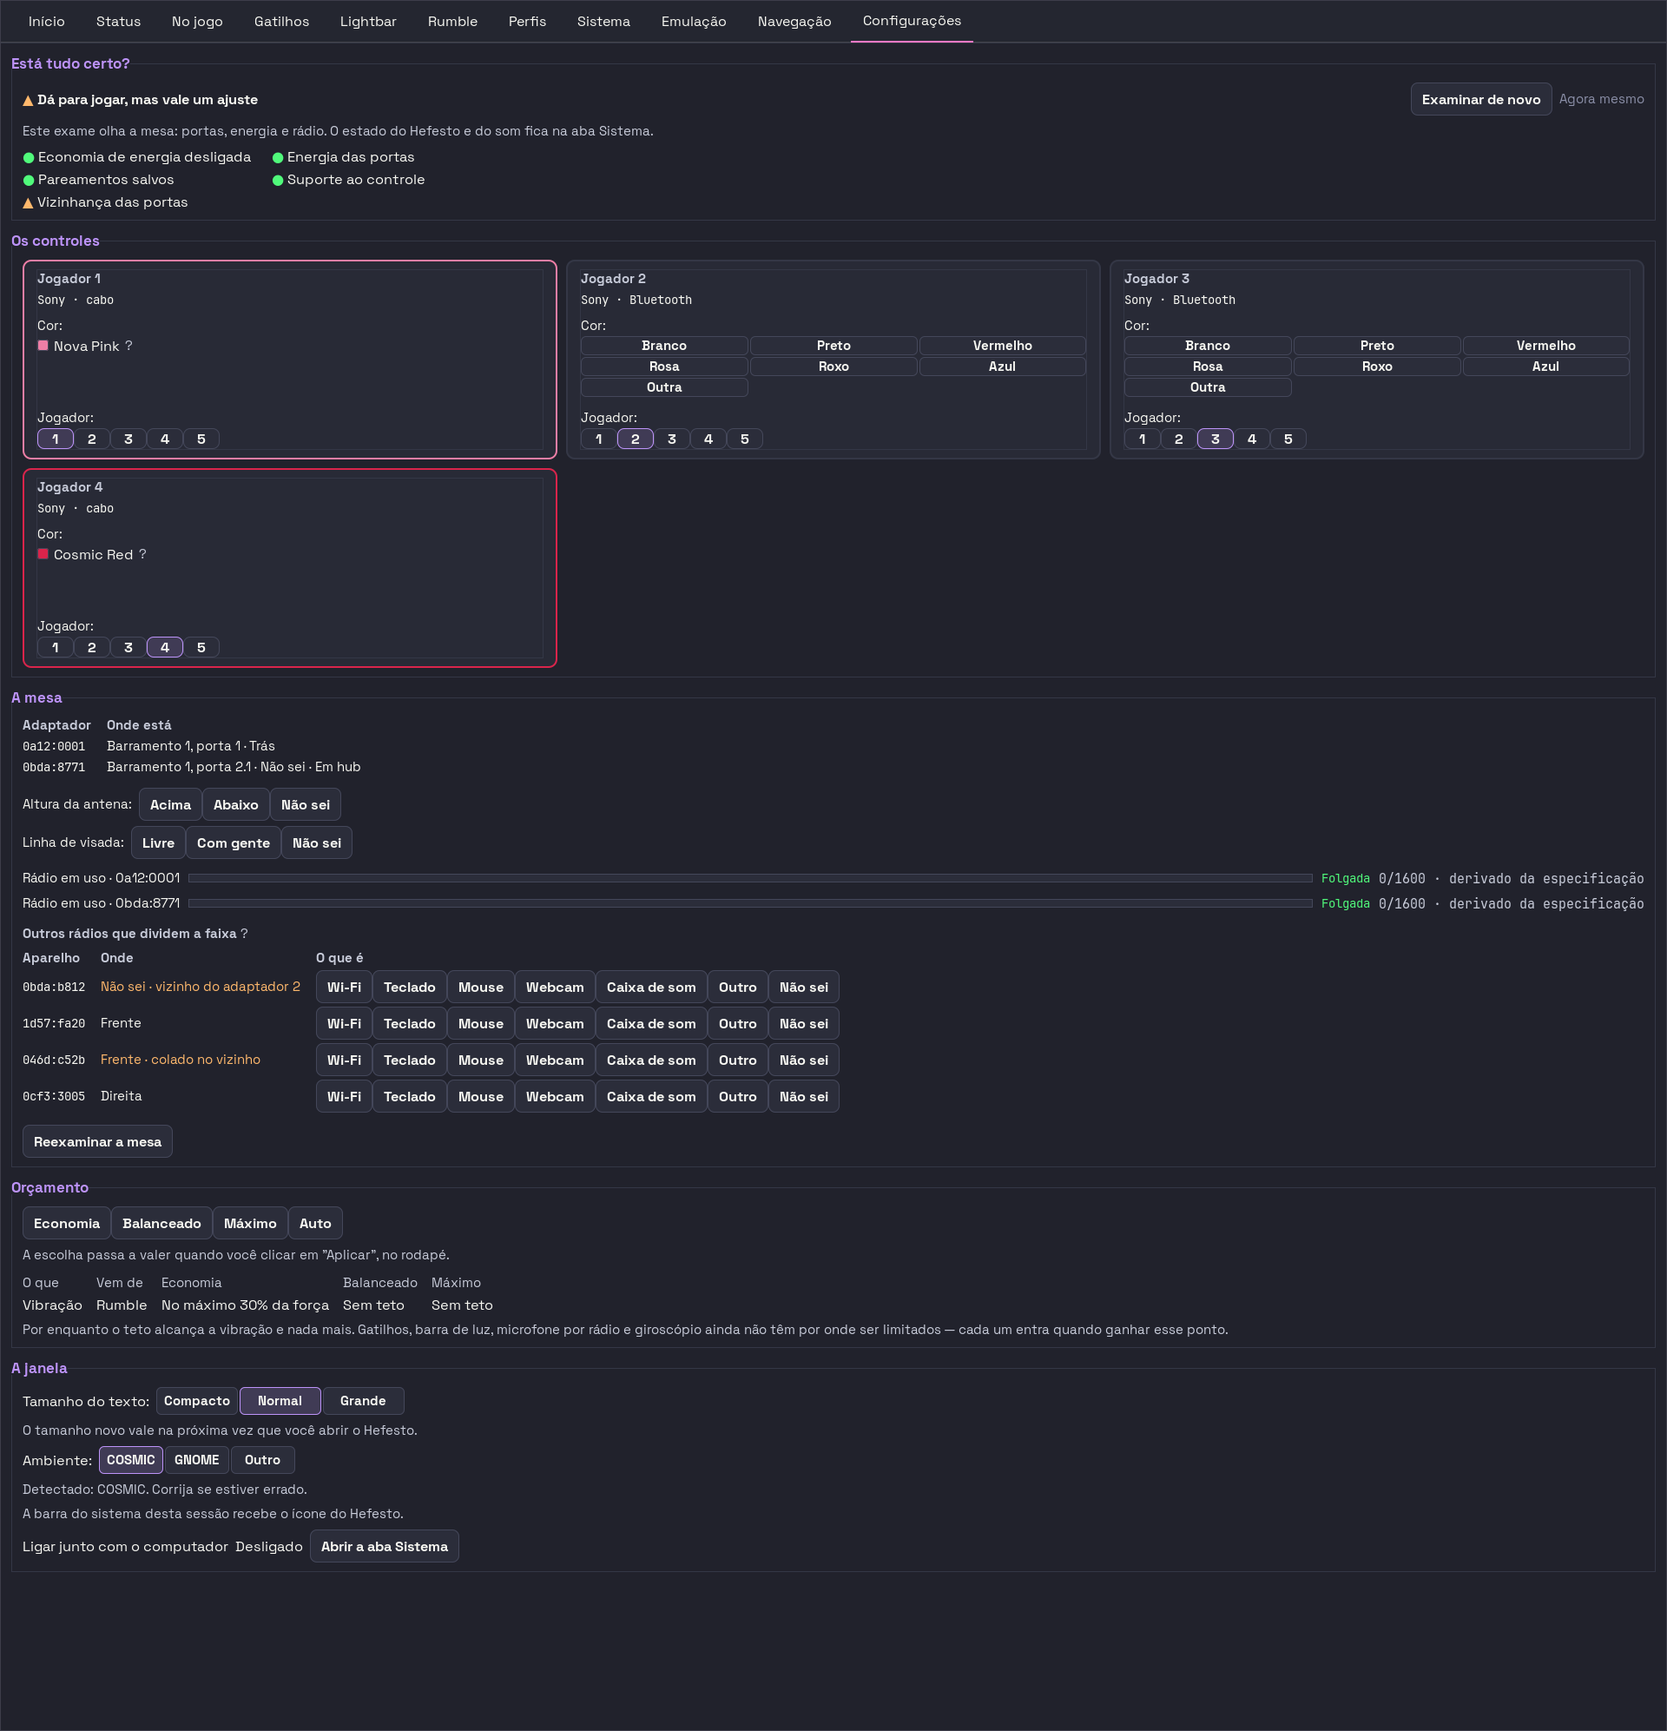
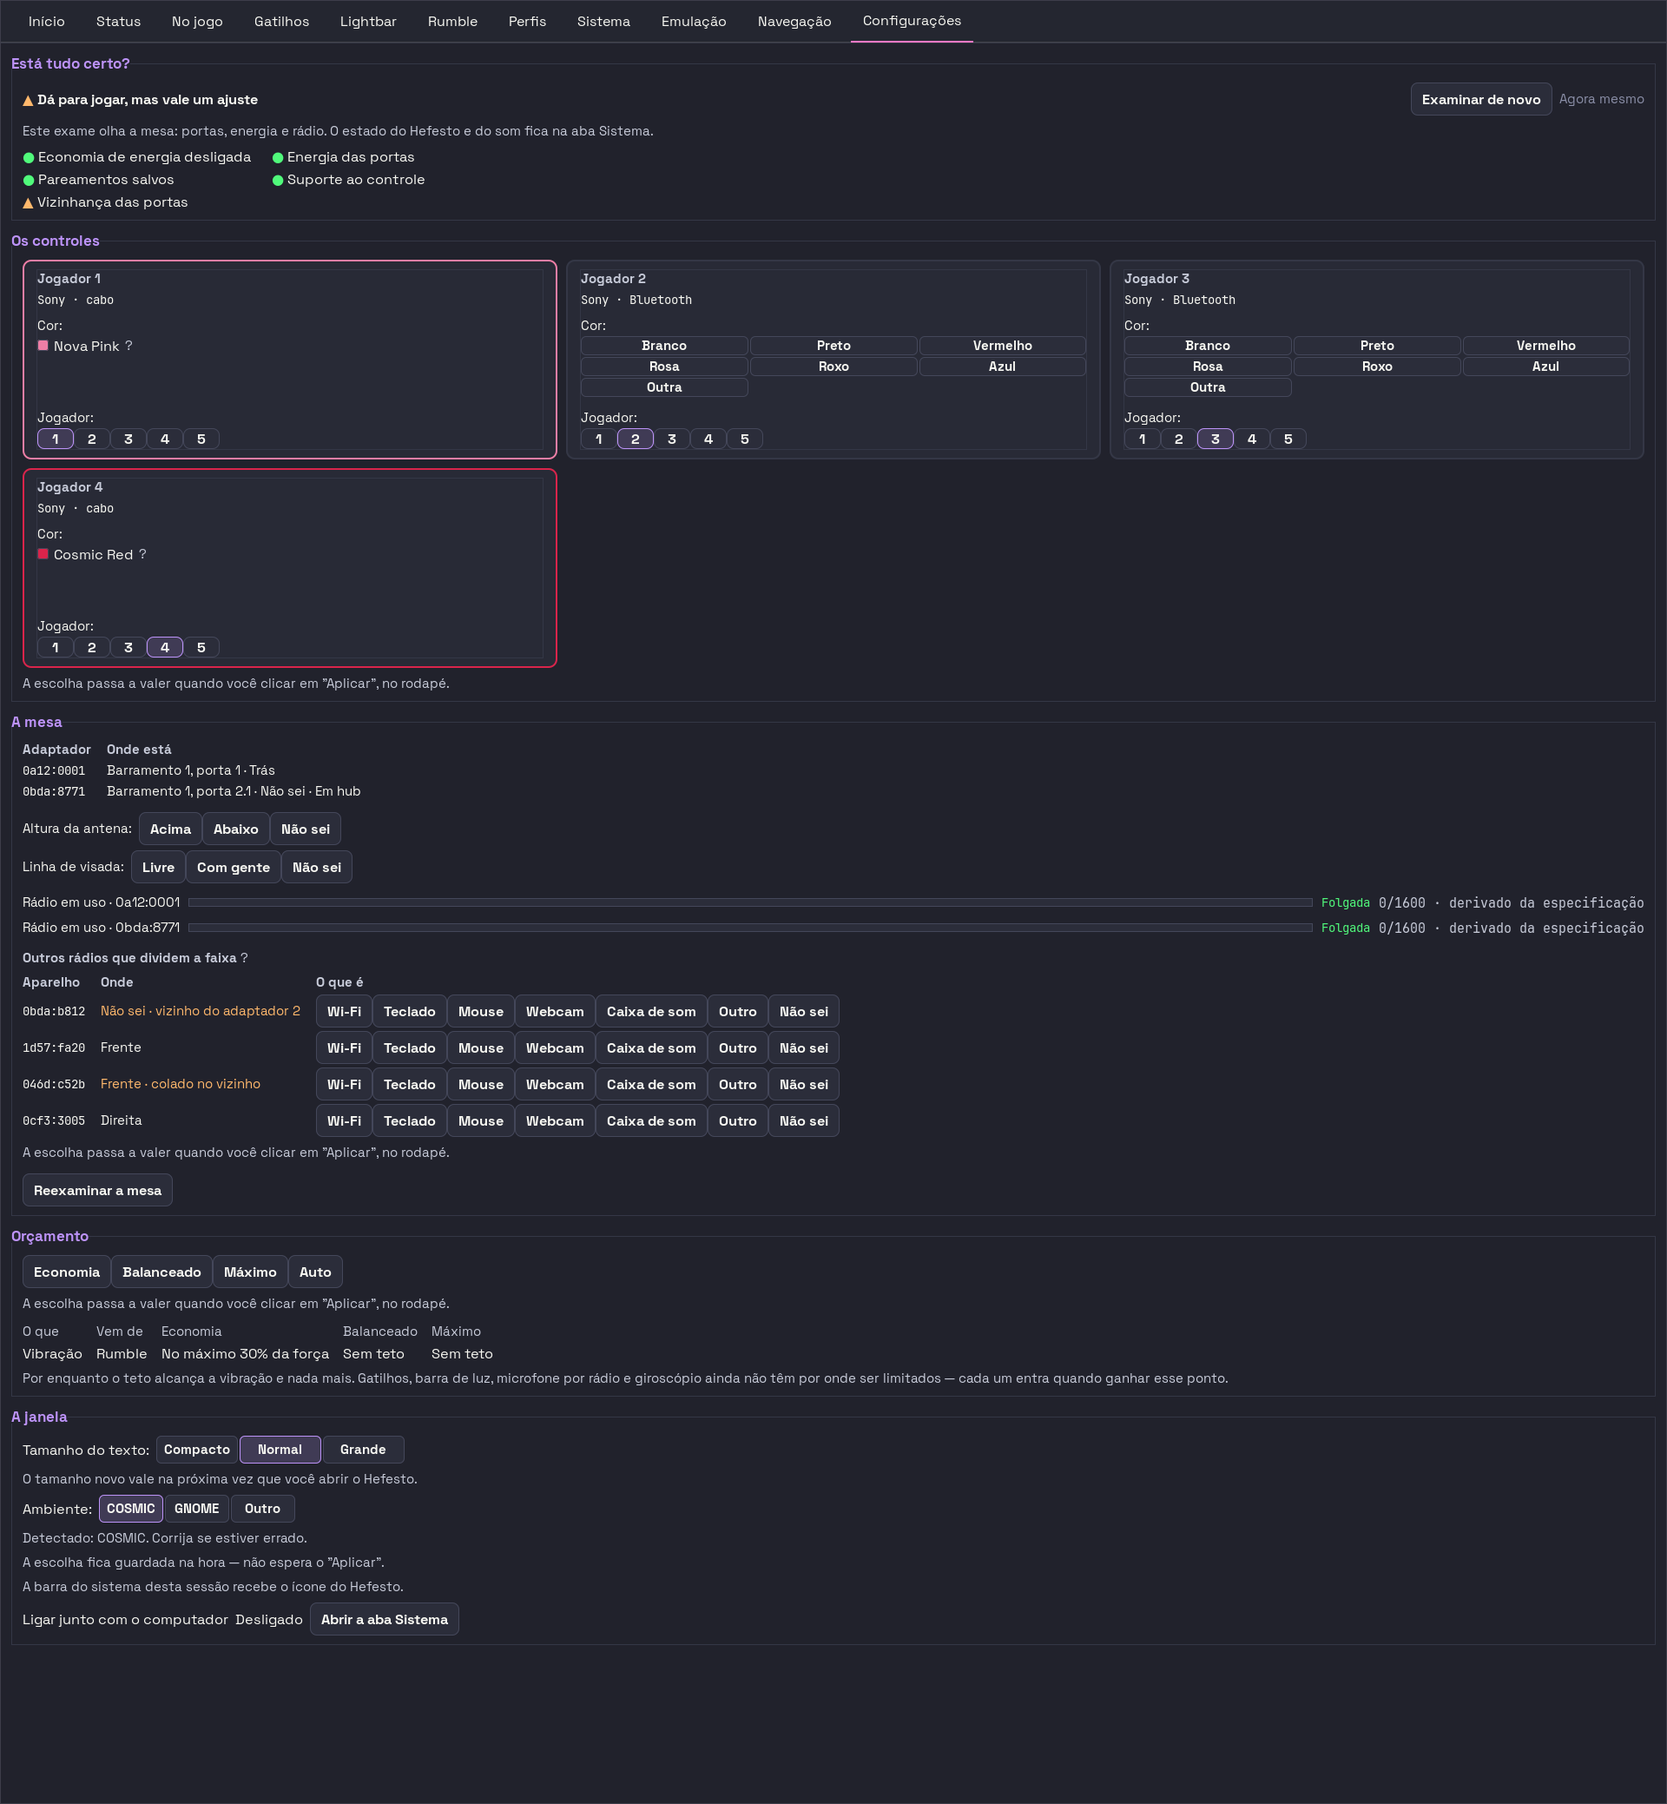
fix(interface): a aba tinha três jeitos de salvar e só um estava escrito na tela
Olhando a aba montada em 22/08:

* **Orçamento** acumula no rascunho e DIZ que espera o "Aplicar";
* **Os controles** e **A mesa** acumulam no MESMO rascunho e não diziam nada;
* **A janela** grava NA HORA (`set_pref`, `gravar_correcao_de_ambiente`) e
  também não dizia nada. A frase que ela tinha — *"o tamanho novo vale na
  próxima vez que você abrir"* — responde QUANDO o tema é aplicado, nunca se a
  escolha ficou guardada.

Três semânticas numa tela só, duas caladas. Quem clica e não vê nada acontecer
conclui uma de duas coisas, e as duas são ruins: que salvou quando não salvou,
ou que não salvou quando já salvou. É a mesma família do que ela relatou hoje
sobre o Sackboy — *"eu seto, clico em salvar, e não aplica"* — pelo lado de
dentro: a tela não diz o que fez com o gesto.

`QUANDO_VALE` e `VALE_JA` passam a morar em `moldura.py`, uma constante cada,
porque a mesma frase em três arquivos diverge na primeira revisão de redação.
O `secao_orcamento` para de ter cópia própria.

**A régua do portão é mecânica, e é isso que a faz valer para a seção que ainda
não existe:** quem escreve em `_maquina_pendente` mostra `QUANDO_VALE`; quem
chama um gravador direto mostra `VALE_JA`; quem não faz nem uma coisa nem outra
não mostra nenhuma das duas — o "Está tudo certo?" prometendo gravar seria a
mentira inversa. Quem escreve é lido do FONTE por AST, nunca de lista à mão:
lista à mão caduca na próxima seção e o portão volta a dizer que está tudo
certo.
[…]

diff --git a/tests/unit/test_a_aba_diz_quando_a_escolha_fica_guardada.py b/tests/unit/test_a_aba_diz_quando_a_escolha_fica_guardada.py
@@ -1,0 +1,205 @@
+"""Toda seção da aba Configurações diz se a escolha ficou guardada.
+
+O DEFEITO, MEDIDO EM 22/08/2026 olhando a aba montada. A aba nasceu com TRÊS
+comportamentos de salvar e só UM deles escrito na tela:
+
+* **"Orçamento"** acumula no rascunho e DIZ que espera o "Aplicar";
+* **"Os controles"** e **"A mesa"** acumulam no MESMO rascunho e não diziam
+  nada;
+* **"A janela"** grava NA HORA (`set_pref`, `gravar_correcao_de_ambiente`) e
+  também não dizia nada. A única frase dela — *"o tamanho novo vale na próxima
+  vez que você abrir o Hefesto"* — responde QUANDO o tema é aplicado, nunca se
+  a escolha foi guardada.
+
+Três semânticas numa tela só, duas caladas. Quem clica e não vê nada acontecer
+conclui uma de duas coisas, e as duas são ruins: que salvou quando não salvou,
+ou que não salvou quando já salvou. É a mesma família do que ela relatou em
+22/08 sobre o Sackboy — *"eu seto, clico em salvar, e não aplica"* — pelo lado
+de dentro: a tela não diz o que fez com o gesto.
+
+A RÉGUA É MECÂNICA, e é o que faz este portão valer para a seção que ainda não
+existe: **quem escreve no rascunho tem de mostrar `QUANDO_VALE`; quem grava na
+hora tem de mostrar `VALE_JA`; e quem não faz nem uma coisa nem outra não
+mostra nenhuma das duas** — uma seção só de leitura ("Está tudo certo?") que
+prometesse gravar seria a mentira inversa.
+
+Quem escreve é lido do FONTE, por AST, e não de uma lista escrita à mão: uma
+lista à mão caduca na próxima seção e o portão volta a mentir dizendo que está
+tudo certo.
+"""
+from __future__ import annotations
+
+import ast
+import inspect
+from pathlib import Path
+from typing import Any
+
+from tests.conftest import exigir_gi_real
+
+# GUARDA-GI-REAL-01: antes de qualquer import de `gi`.
+exigir_gi_real("a frase de quando a escolha vale")
+
+import pytest
+
+_gi = pytest.importorskip("gi", reason="precisa de PyGObject")
+_gi.require_version("Gtk", "3.0")
+from gi.repository import Gtk
+
+from hefesto_dualsense4unix.app.actions.config import SECOES_DA_ABA
+from hefesto_dualsense4unix.app.actions.config.moldura import QUANDO_VALE, VALE_JA
+
+#: Os nomes que, chamados por uma seção, significam "isto foi ao disco AGORA".
+#: São os escritores diretos de preferência — não passam pelo rodapé.
+GRAVADORES_IMEDIATOS = frozenset({"set_pref", "gravar_correcao_de_ambiente"})
+
+#: O atributo do hospedeiro em que as seções DIFERIDAS acumulam. Quem o escreve
+#: espera o "Aplicar".
+RASCUNHO = "_maquina_pendente"
+
+
+def _fonte(secao: Any) -> str:
+    return Path(inspect.getfile(secao)).read_text(encoding="utf-8")
+
+
+def _escreve_no_rascunho(secao: Any) -> bool:
+    """A seção atribui a `host._maquina_pendente` em algum ponto?"""
+    for no in ast.walk(ast.parse(_fonte(secao))):
+        if not isinstance(no, ast.Assign):
+            continue
+        for alvo in no.targets:
+            if isinstance(alvo, ast.Attribute) and alvo.attr == RASCUNHO:
+                return True
+    return False
+
+
+def _grava_na_hora(secao: Any) -> bool:
+    """A seção chama um escritor direto de preferência?"""
+    for no in ast.walk(ast.parse(_fonte(secao))):
+        if not isinstance(no, ast.Call):
+            continue
+        alvo = no.func
+        nome = (
+            alvo.id
+            if isinstance(alvo, ast.Name)
+            else alvo.attr
+            if isinstance(alvo, ast.Attribute)
+            else None
+        )
+        if nome in GRAVADORES_IMEDIATOS:
+            return True
+    return False
+
+
+class _HospedeiroVazio:
+    """Sem builder, sem mesa, sem daemon — como o portão do item 8."""
+
+    def __init__(self) -> None:
+        self.builder = None
+
+
+def _textos(secao: Any) -> list[str]:
+    """Todo texto de rótulo que a seção põe na caixa, montada de verdade."""
+    import contextlib
+
+    caixa = Gtk.Box(orientation=Gtk.Orientation.VERTICAL)
+    with contextlib.suppress(Exception):
+        secao.montar(_HospedeiroVazio(), caixa)
+
+    achados: list[str] = []
+
+    def _andar(widget: Any) -> None:
+        if isinstance(widget, Gtk.Label):
+            achados.append(widget.get_text())
+        if hasattr(widget, "get_children"):
+            for filho in widget.get_children():
+                _andar(filho)
+
+    _andar(caixa)
+    return achados
+
+
+def test_quem_escreve_no_rascunho_diz_que_espera_o_aplicar() -> None:
+    """Seção diferida sem a frase é seção que parece não ter feito nada.
+
+    Mordida: tirar o `pack_start(rotulo_de_apoio(QUANDO_VALE), ...)` de
+    `secao_mesa`, `secao_controles` ou `secao_orcamento`.
+    """
+    caladas = [
+        secao.TITULO
+        for secao in SECOES_DA_ABA
+        if _escreve_no_rascunho(secao) and QUANDO_VALE not in _textos(secao)
+    ]
+    assert not caladas, (
+        f"estas seções acumulam no rascunho e não dizem que esperam o "
+        f"'Aplicar': {caladas}. Quem clica e não vê nada acontecer conclui que "
+        "não salvou."
+    )
+
+
+def test_quem_grava_na_hora_diz_que_nao_espera_o_aplicar() -> None:
+    """A contraparte: "A janela" é a única que grava sozinha, e tem de dizer.
+
+    Mordida: tirar o `pack_start(rotulo_de_apoio(VALE_JA), ...)` de
+    `secao_janela`.
+    """
+    caladas = [
+        secao.TITULO
+        for secao in SECOES_DA_ABA
+        if _grava_na_hora(secao) and VALE_JA not in _textos(secao)
+    ]
+    assert not caladas, (
+        f"estas seções gravam no próprio clique e não dizem isso: {caladas}. "
+        "Numa aba em que tudo o mais espera o 'Aplicar', o silêncio aqui é lido "
+        "como 'ainda não salvei'."
+    )
+
+
+def test_as_duas_frases_nunca_aparecem_na_mesma_secao() -> None:
+    """Elas se contradizem. Uma seção com as duas é pior que uma sem nenhuma.
+
+    Mordida: pôr `VALE_JA` em qualquer seção que já mostra `QUANDO_VALE`.
+    """
+    ambas = [
+        secao.TITULO
+        for secao in SECOES_DA_ABA
+        if QUANDO_VALE in _textos(secao) and VALE_JA in _textos(secao)
+    ]
+    assert not ambas, f"estas seções afirmam as duas coisas ao mesmo tempo: {ambas}"
+
+
+def test_secao_que_so_le_nao_promete_gravacao() -> None:
+    """A mentira inversa: "Está tudo certo?" não grava nada e não pode dizer que grava.
+
+    Mordida: pôr qualquer uma das duas frases na `secao_exame`.
+    """
+    mentindo = [
+        secao.TITULO
+        for secao in SECOES_DA_ABA
+        if not _escreve_no_rascunho(secao)
+        and not _grava_na_hora(secao)
+        and (QUANDO_VALE in _textos(secao) or VALE_JA in _textos(secao))
+    ]
+    assert not mentindo, (
+        f"estas seções não gravam nada e mesmo assim falam de gravar: {mentindo}"
+    )
+
+
+def test_a_frase_e_a_mesma_constante_nas_tres_secoes() -> None:
+    """Três cópias do mesmo texto divergem na primeira revisão de redação.
+
+    Este é o portão contra o retorno do defeito pela porta dos fundos: alguém
+    reescreve a frase numa seção só, e a aba volta a ter duas maneiras de dizer
+    a mesma coisa.
+
+    Mordida: escrever a frase literal dentro de uma das seções em vez de
+    importar `moldura.QUANDO_VALE`.
+    """
+    literais = [
+        secao.TITULO
+        for secao in SECOES_DA_ABA
+        if 'A escolha passa a valer quando você clicar' in _fonte(secao)
+    ]
+    assert not literais, (
+        f"estas seções escrevem a frase à mão em vez de importar "
+        f"`moldura.QUANDO_VALE`: {literais}"
+    )

diff --git a/src/hefesto_dualsense4unix/app/actions/config/moldura.py b/src/hefesto_dualsense4unix/app/actions/config/moldura.py
@@ -28,6 +28,27 @@ MARGEM_HORIZONTAL = 12
 #: Espaçamento entre filhos diretos do conteúdo de uma seção.
 ESPACAMENTO = 8
 
+#: A frase que diz quando a escolha passa a valer, para as seções DIFERIDAS.
+#:
+#: ELA MORA AQUI, E NÃO EM CADA SEÇÃO, POR UM DEFEITO MEDIDO EM 22/08/2026.
+#: A aba nasceu com TRÊS comportamentos de salvar e só UM deles escrito na tela:
+#:
+#: * "Orçamento" acumula no rascunho e DIZ que espera o "Aplicar";
+#: * "Os controles" e "A mesa" acumulam no mesmo rascunho e não diziam nada;
+#: * "A janela" grava NA HORA (`set_pref`, `gravar_correcao_de_ambiente`) e
+#:   também não dizia nada — a única frase dela, *"vale na próxima vez que você
+#:   abrir"*, fala de quando o tema é aplicado, não de se a escolha foi guardada.
+#:
+#: Três semânticas numa tela só, duas caladas. Quem clica e não vê nada
+#: acontecer conclui uma de duas coisas, e as duas são ruins: que salvou quando
+#: não salvou, ou que não salvou quando já salvou. Constante compartilhada
+#: porque a mesma frase em três arquivos diverge na primeira revisão de texto.
+QUANDO_VALE = 'A escolha passa a valer quando você clicar em "Aplicar", no rodapé.'
+
+#: A contraparte, para a seção que grava NA HORA. Sem ela, "A janela" seria a
+#: única sem resposta à pergunta "isto ficou guardado?".
+VALE_JA = 'A escolha fica guardada na hora — não espera o "Aplicar".'
+
 
 def moldura_de_secao(titulo: str, dica: str | None = None) -> tuple[Any, Any]:
     """Devolve ``(frame, caixa)`` — a moldura e a caixa onde a seção monta.

diff --git a/src/hefesto_dualsense4unix/app/actions/config/secao_controles.py b/src/hefesto_dualsense4unix/app/actions/config/secao_controles.py
@@ -39,7 +39,10 @@ import contextlib
 from collections.abc import Callable
 from typing import Any
 
-from hefesto_dualsense4unix.app.actions.config.moldura import rotulo_de_apoio
+from hefesto_dualsense4unix.app.actions.config.moldura import (
+    QUANDO_VALE,
+    rotulo_de_apoio,
+)
 from hefesto_dualsense4unix.app.actions.external_controllers import (
     ID_DE_OUTRA_COR,
     chave_de_maquina,
@@ -176,6 +179,15 @@ class _PainelDosControles:
         # resposta chega por callback, e uma seção em branco enquanto ela não
         # chega leria como seção quebrada.
         self._desenhar([])
+        # Cor e número de jogador são DIFERIDOS como o resto da aba, e a frase
+        # é a mesma constante do Orçamento e da Mesa. Ver `moldura.QUANDO_VALE`
+        # para o defeito que ela fecha: a aba tinha três semânticas de salvar e
+        # só uma escrita na tela.
+        #
+        # Ela fica FORA de `self._caixa` de propósito: aquela caixa é esvaziada
+        # e repreenchida a cada reexame, e a frase não é dado da mesa — some e
+        # volta piscaria a cada troca de aba.
+        caixa.pack_start(rotulo_de_apoio(QUANDO_VALE), False, False, 0)
         self.reexaminar()
 
     # -- leitura -----------------------------------------------------------

diff --git a/src/hefesto_dualsense4unix/app/actions/config/secao_janela.py b/src/hefesto_dualsense4unix/app/actions/config/secao_janela.py
@@ -38,7 +38,10 @@ import contextlib
 import html
 from typing import Any
 
-from hefesto_dualsense4unix.app.actions.config.moldura import rotulo_de_apoio
+from hefesto_dualsense4unix.app.actions.config.moldura import (
+    VALE_JA,
+    rotulo_de_apoio,
+)
 from hefesto_dualsense4unix.app.ambiente import (
     AMBIENTES,
     ambiente_efetivo,
@@ -112,6 +115,13 @@ def montar(host: Any, caixa: Any) -> None:
     )
     caixa.pack_start(_fileira_do_ambiente(host), False, False, 0)
     caixa.pack_start(rotulo_de_apoio(frase_do_detectado(ambiente_lido())), False, False, 0)
+    # A ÚNICA seção da aba que grava NA HORA, e por isso a única que precisa
+    # dizer o contrário das outras. As duas escolhas acima vão ao disco no
+    # próprio clique (`set_pref` e `gravar_correcao_de_ambiente`) — o "Aplicar"
+    # do rodapé não tem nada a ver com elas. Sem esta linha, "A janela" era a
+    # única seção sem resposta para "isto ficou guardado?": a frase que existia
+    # ali fala de QUANDO o tema é aplicado, não de se a escolha foi guardada.
+    caixa.pack_start(rotulo_de_apoio(VALE_JA), False, False, 0)
 
     bandeja = rotulo_de_apoio("Conferindo o ícone na barra do sistema.")
     host._config_bandeja_rotulo = bandeja

diff --git a/src/hefesto_dualsense4unix/app/actions/config/secao_orcamento.py b/src/hefesto_dualsense4unix/app/actions/config/secao_orcamento.py
@@ -42,7 +42,10 @@ from __future__ import annotations
 import contextlib
 from typing import Any
 
-from hefesto_dualsense4unix.app.actions.config.moldura import rotulo_de_apoio
+from hefesto_dualsense4unix.app.actions.config.moldura import (
+    QUANDO_VALE,
+    rotulo_de_apoio,
+)
 from hefesto_dualsense4unix.app.actions.rumble_actions import ROTULOS_DO_ORCAMENTO
 from hefesto_dualsense4unix.app.widgets.segmented_selector import SegmentedSelector
 from hefesto_dualsense4unix.core.rumble import teto_do_orcamento
@@ -120,11 +123,6 @@ ALCANCE_DE_HOJE = (
     "luz, microfone por rádio e giroscópio ainda não têm por onde ser "
     "limitados — cada um entra quando ganhar esse ponto."
 )
-
-#: A frase que diz quando a escolha passa a valer. A aba inteira é diferida, e
-#: sem esta linha o clique parece não ter feito nada.
-QUANDO_VALE = 'A escolha passa a valer quando você clicar em "Aplicar", no rodapé.'
-
 
 def orcamento_em_vigor(host: Any = None) -> str | None:
     """A chave do orçamento que está GRAVADA — nunca a que espera o "Aplicar".

diff --git a/src/hefesto_dualsense4unix/app/actions/config/secao_mesa.py b/src/hefesto_dualsense4unix/app/actions/config/secao_mesa.py
@@ -47,7 +47,10 @@ from __future__ import annotations
 import contextlib
 from typing import Any
 
-from hefesto_dualsense4unix.app.actions.config.moldura import rotulo_de_apoio
+from hefesto_dualsense4unix.app.actions.config.moldura import (
+    QUANDO_VALE,
+    rotulo_de_apoio,
+)
 from hefesto_dualsense4unix.integrations.mesa_de_radio import (
     Adaptador,
     Mesa,
@@ -262,6 +265,10 @@ class _PainelDaMesa:
         self._caixa_radios = Gtk.Box(orientation=Gtk.Orientation.VERTICAL)
         caixa.pack_start(self._caixa_radios, False, False, 0)
 
+        # As três declarações desta seção são DIFERIDAS, e a frase é a
+        # mesma do Orçamento — literalmente a mesma constante. Ver
+        # `moldura.QUANDO_VALE` para o defeito que ela fecha.
+        caixa.pack_start(rotulo_de_apoio(QUANDO_VALE), False, False, 0)
         caixa.pack_start(self._botao_de_reexame(), False, False, 0)
         # Montar lê o BARRAMENTO e nada mais. O `daemon.state_full` que
         # alimenta o medidor fica de fora daqui de propósito, pelo mesmo motivo
